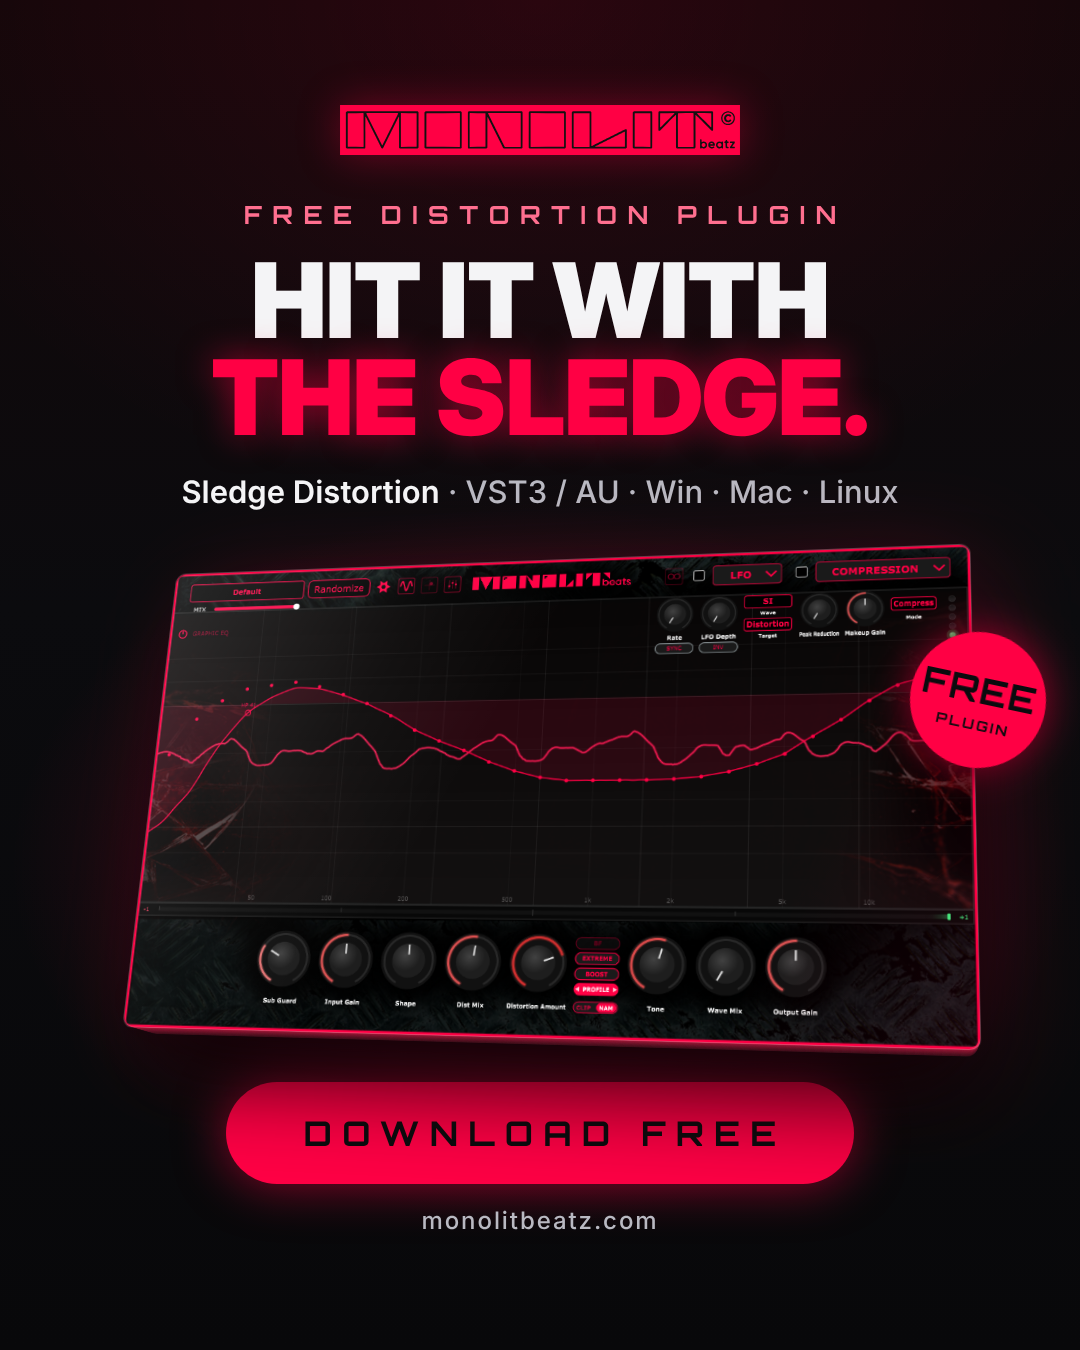
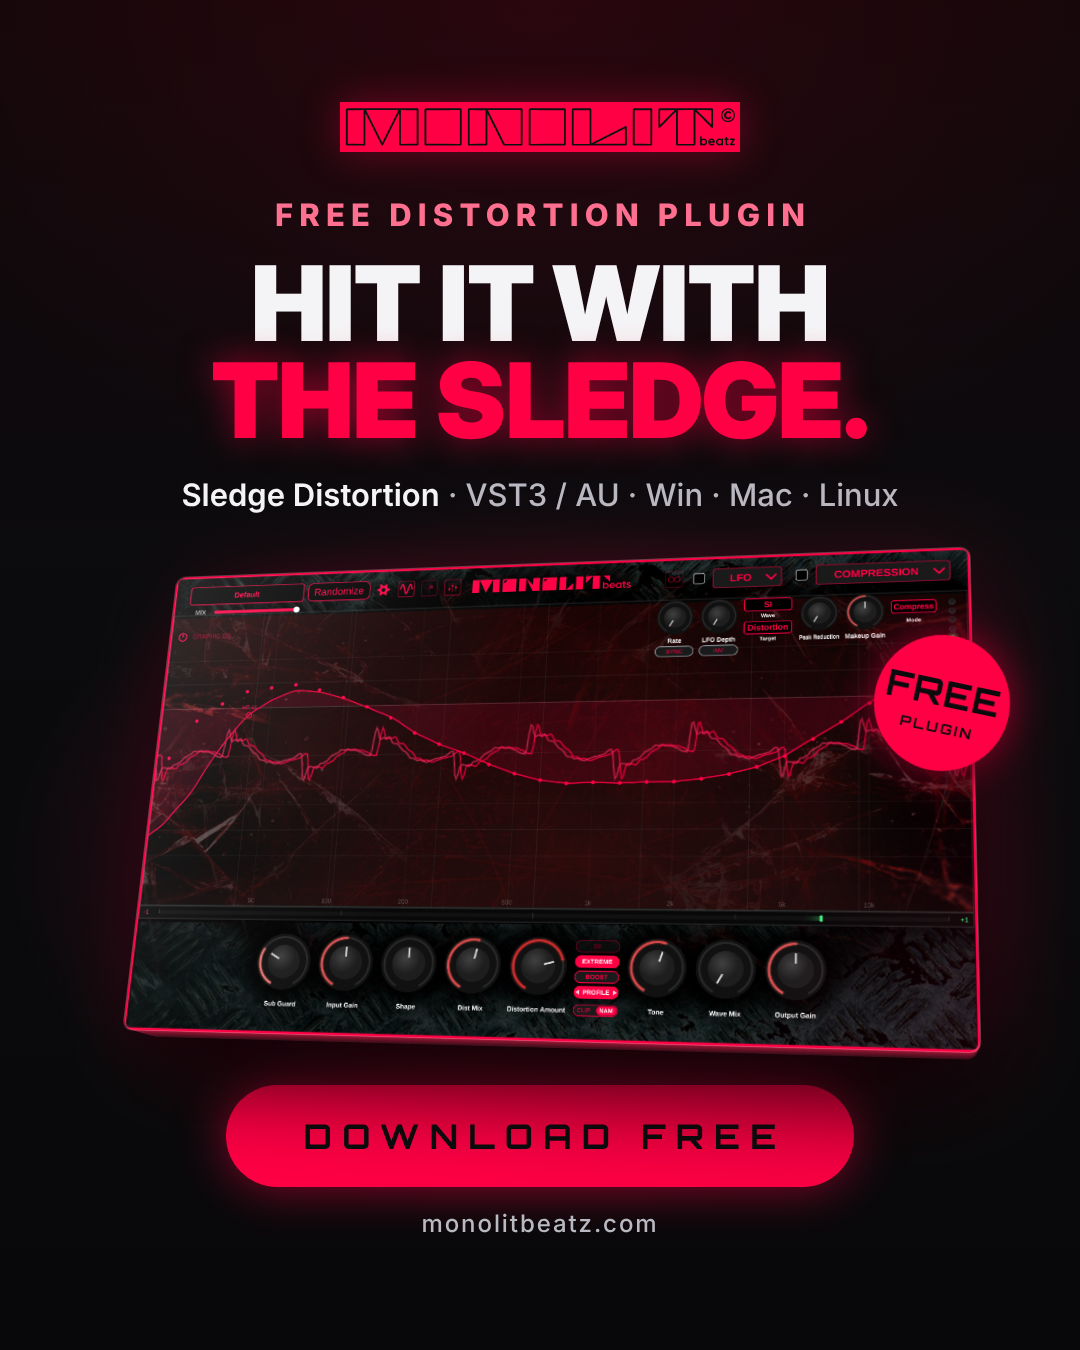
chore: EXTREME plugin render, clearer kicker and grid-safe sticker on the launch post
The plugin image is a fresh 3x render in the README screenshot's state (its EQ drawing, knob positions and a NAM profile playing) with EXTREME on, made by marketing/launch/snapshot.sh. DistortionUiSnapshot gains --param <id>=<value> and --signal-hz / --signal-amp for it. The kicker moves from Orbitron to Inter, where "808s" read as "BØBs", and the FREE sticker moves in so Instagram's 3:4 profile-grid crop keeps it whole.

diff --git a/marketing/launch/post.html b/marketing/launch/post.html
@@ -34,10 +34,12 @@
   body.story .canvas { padding: 250px 0 340px; } /* clear the Stories UI */
 
   .logo { width: 400px; display: block; box-shadow: 0 0 40px rgba(255,0,68,.35); }
+  /* Inter, not Orbitron: Orbitron's 8 reads as a B and its 0 is slashed, so with
+     wide tracking "808s" scanned as "BØBs". */
   .kicker {
-    margin-top: 44px; font-family: "Orbitron"; font-weight: 700;
-    font-size: 25px; letter-spacing: .42em; color: var(--red-soft);
-    padding-left: .42em;
+    margin-top: 44px; font-family: "Inter", sans-serif; font-weight: 800;
+    font-size: 31px; letter-spacing: .2em; color: var(--red-soft);
+    padding-left: .2em;
   }
   h1 {
     margin-top: 22px; font-family: "Inter Display", "Inter", sans-serif; font-weight: 900;
@@ -84,8 +86,10 @@
     background: linear-gradient(118deg, rgba(255,255,255,.16) 0%, rgba(255,255,255,.04) 28%,
                 transparent 42%, transparent 78%, rgba(255,0,68,.08) 100%);
   }
+  /* right: 0 keeps the badge inside x 34..1046, what the profile grid's 3:4
+     thumbnail shows of a 4:5 post. */
   .badge {
-    position: absolute; right: -36px; top: 78px; width: 136px; height: 136px; z-index: 2;
+    position: absolute; right: 0; top: 78px; width: 136px; height: 136px; z-index: 2;
     border-radius: 50%; background: var(--red); color: #0b0b0e;
     display: flex; flex-direction: column; align-items: center; justify-content: center;
     font-family: "Orbitron"; font-weight: 700; transform: rotate(12deg);

diff --git a/marketing/launch/render.js b/marketing/launch/render.js
@@ -3,11 +3,9 @@
 //   sledge-launch-feed.png / -story.png               1080 px wide, ready to post
 // Then: python3 marketing/launch/make-pdf.py packs the 3x images into one PDF.
 //
-// The plugin screenshot (assets/ui.png) is docs/images/interface-eq-lfo-compression.png
-// cropped to the plugin's frame (1200x705, version stamp hidden). For a sharper
-// one, the editor can be painted at 3x pixel density instead:
-//   build/DistortionUiSnapshot_artefacts/Release/DistortionUiSnapshot \
-//     --scale 100 --eq --signal --pixel-scale 3 --marketing --out <dir>
+// The plugin image (assets/ui.png, 2880x1692) comes from snapshot.sh: the
+// editor painted at 3x pixel density in the README screenshot's state, with
+// EXTREME on. Re-run snapshot.sh first when the plugin's look changes.
 // Chromium rasterizes the tilted (3D) screen below the page's density, which
 // softens it, so the page reports the screen's corners, warp.py does the
 // perspective at full quality, and the result is laid over the page flat.

diff --git a/Source/Tools/UiSnapshot.cpp b/Source/Tools/UiSnapshot.cpp
@@ -60,6 +60,14 @@ juce::File writeScratchSettings(const juce::File& root, bool collapsed, int scal
     return settings;
 }
 
+// The tone --signal feeds: --signal-hz and --signal-amp override it.
+struct SignalSpec
+{
+    double hz = 220.0;
+    float amplitude = 0.7f;
+};
+SignalSpec signalSpec;
+
 // Runs a fixed tone through the processor so the oscilloscope has something to
 // draw. Opt-in (--signal): with no signal the harness stays a pure layout gate
 // whose renders do not depend on DSP behaviour, which is what makes it usable
@@ -77,16 +85,15 @@ void feedScope(PluginProcessor& proc)
     // parameter smoothing ramps and the compressor's attack, so what lands in the
     // FIFO is steady state rather than the onset transient.
     constexpr int    numBlocks  = 32;
-    constexpr double freqHz     = 220.0;
-    constexpr float  amplitude  = 0.7f;
+    const double     freqHz     = signalSpec.hz;
+    const float      amplitude  = signalSpec.amplitude;
     // A small offset keeps the two stereo traces distinguishable in the render.
     constexpr double rightPhaseOffset = 0.25;
 
-    // NOTE: the parameters are left at their defaults, which means distortionAmount
-    // is 0 and compEnabled false, so processBlock takes the true-bypass branch and
-    // the scope shows a clean sine. That is a deliberate choice for the docs image
-    // - a driven render was tried and the undriven waveform reads better - but it
-    // does mean this render shows the signal path, not the distortion character.
+    // NOTE: unless --param changes them, the parameters are at their defaults:
+    // distortionAmount 20, so the scope shows the default drive's waveform. A
+    // render at distortionAmount 0 takes the true-bypass branch and shows the
+    // clean sine, which is what the docs image originally used.
     juce::AudioBuffer<float> buffer(2, blockSize);
     juce::MidiBuffer midi;
 
@@ -175,13 +182,21 @@ bool snapshot(PluginProcessor& proc, int width, int height, const juce::File& ou
     // --marketing hides the "Made with JUCE" badge and the build version
     // label, which belong in the product but not in an ad.
     if (marketing)
+    {
         for (auto* child : editor.getChildren())
+        {
             if (dynamic_cast<juce::JUCESplashScreen*>(child) != nullptr)
+            {
                 child->setVisible(false);
+            }
             else if (auto* label = dynamic_cast<juce::Label*>(child))
-                if (const auto text = label->getText();
-                    text.startsWithChar('v') && juce::CharacterFunctions::isDigit(text[1]) && text.containsChar('.'))
+            {
+                const auto text = label->getText();
+                if (text.startsWithChar('v') && juce::CharacterFunctions::isDigit(text[1]) && text.containsChar('.'))
                     label->setVisible(false);
+            }
+        }
+    }
 
     // The editor keeps its logical size; --pixel-scale paints it through a
     // transform into a larger image, as a high-DPI display would. Text, knobs
@@ -224,6 +239,10 @@ int main(int argc, char* argv[])
                 "  --collapsed      scope folded away\n"
                 "  --extreme        EXTREME mode engaged\n"
                 "  --signal         feed a signal so the scope shows a waveform\n"
+                "  --signal-hz <f>  its frequency (default 220)\n"
+                "  --signal-amp <a> its peak level, linear (default 0.7)\n"
+                "  --param <id>=<v> set any parameter, in its own units (repeatable;\n"
+                "                   applied after --shape, --eq and --legacy, so it overrides them)\n"
                 "  --shape <v>      set Shape (-100..100) before rendering\n"
                 "  --legacy         Legacy Filter mode, Low Pass at 800 Hz (the knob slot shows the filter)\n"
                 "  --profile <f>    load a NAM profile (copied into a scratch library)\n"
@@ -249,6 +268,7 @@ int main(int argc, char* argv[])
     int pixelScale = 1;
     bool marketing = false;
     juce::String profilePath;
+    juce::StringPairArray paramValues;
     for (int i = 1; i < argc; ++i)
     {
         const juce::String t(argv[i]);
@@ -269,6 +289,21 @@ int main(int argc, char* argv[])
         else if (t == "--pixel-scale" && i + 1 < argc)
             pixelScale = juce::jlimit(1, 4, juce::String(argv[++i]).getIntValue());
         else if (t == "--marketing")             marketing = true;
+        else if (t == "--signal-hz" && i + 1 < argc)
+            signalSpec.hz = juce::jlimit(10.0, 20000.0, juce::String(argv[++i]).getDoubleValue());
+        else if (t == "--signal-amp" && i + 1 < argc)
+            signalSpec.amplitude = juce::jlimit(0.0f, 1.0f, juce::String(argv[++i]).getFloatValue());
+        else if (t == "--param" && i + 1 < argc)
+        {
+            const juce::String kv(argv[++i]);
+            if (! kv.containsChar('='))
+            {
+                std::cout << "--param wants <id>=<value>, got: " << kv << "\n";
+                return 1;
+            }
+            paramValues.set(kv.upToFirstOccurrenceOf("=", false, false).trim(),
+                            kv.fromFirstOccurrenceOf("=", false, false).trim());
+        }
     }
 
     // Collapsed (scope folded away) is the other fold state. The harness drives it
@@ -310,6 +345,19 @@ int main(int argc, char* argv[])
                 p->setValueNotifyingHost(p->convertTo0to1(target[(size_t) i]));
     }
     if (legacy)   { setParam("legacyFilter", 1.0f); setParam("filterMode", 1.0f); setParam("highPassFreq", 800.0f); }
+
+    // Last, so a --param overrides what the flags above set.
+    for (const auto& id : paramValues.getAllKeys())
+    {
+        auto* p = proc.parameters.getParameter(id);
+        if (p == nullptr)
+        {
+            std::cout << "Unknown parameter: " << id << "\n";
+            return 1;
+        }
+        p->setValueNotifyingHost(p->convertTo0to1(paramValues[id].getFloatValue()));
+        std::cout << "  " << id << " = " << p->getCurrentValueAsText() << "\n";
+    }
 
     // The profile library lives in the scratch root too, so the card's position
     // ("1 / 1") never depends on what this machine has collected.

diff --git a/AGENTS.md b/AGENTS.md
@@ -156,6 +156,8 @@ Steps 13–15 live inside `applyAutoGainAndISP`; 16–17 are in `processBlock` p
   ./DistortionUiSnapshot --drop-hint --out shots  # a .nam drag over the window
   ./DistortionUiSnapshot --eq --out shots         # Graphic EQ overlay with a sample curve
   ./DistortionUiSnapshot --scale 100 --eq --signal --pixel-scale 3 --marketing --out shots  # 2880x1692, no JUCE badge or version: marketing art
+  ./DistortionUiSnapshot --param distortionAmount=75 --param eqThird17=-9.6 --out shots  # any parameter, in its own units (after --eq etc.)
+  ./DistortionUiSnapshot --signal --signal-hz 110 --signal-amp 0.3 --out shots           # the tone --signal feeds (default 220 Hz, 0.7)
   ./DistortionUiSnapshot --profile drive.nam --out shots                 # a NAM profile loaded (pill lit)
   ./DistortionUiSnapshot --profile drive.nam --profile-card --out shots  # the browser's name card, settled
   ./DistortionUiSnapshot --profile drive.nam --engine-clip --out shots   # CLIP / NAM switch on CLIP
